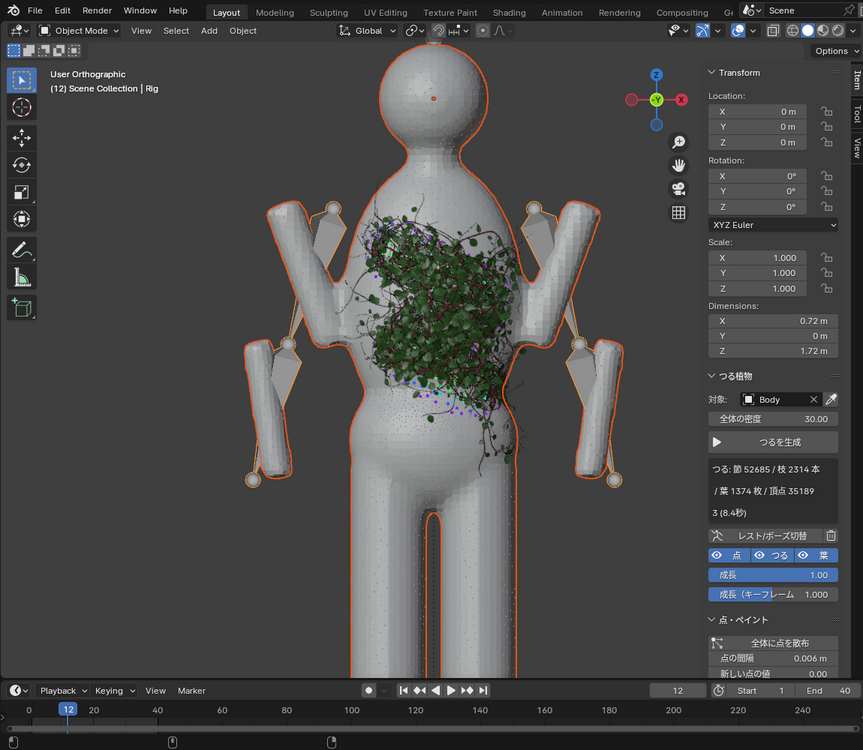
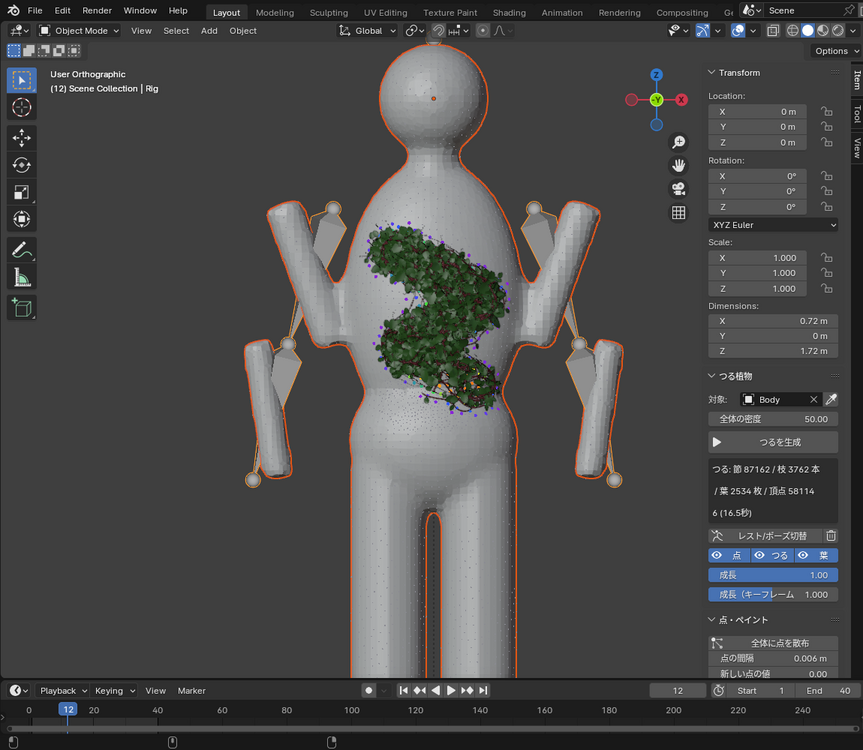
Vine Grow 1.9: paint colours orange-yellow-green-blue-purple, values read clearly
Values 0..100 are shown purple -> blue -> green -> yellow -> orange and
act squared on the density, so orange grows thick, blue only a few vines
and purple none. Each vine keeps to the density where it started:
it turns back where the paint gets thinner and stops if it strays.

Claude-Session: https://claude.ai/code/session_01KQp3gkt41MH9DD5UKXXHAb

Changed region(s): [[0.3917, 0.276, 0.6025, 0.6133], [0.9038, 0.6133, 0.934, 0.644], [0.8436, 0.6747, 0.8737, 0.7053]]

diff --git a/blender/vine_grow/vine_grow/tangle.py b/blender/vine_grow/vine_grow/tangle.py
@@ -85,8 +85,9 @@ class PointField(_FieldBase):
             self.kd.insert(nd.co, i)
         self.kd.balance()
         blend = max(P.point_blend * scale, self.spacing * 0.5)
-        # painted 0..100 (100 = the overall density)
-        vals = [max(0.0, v) / 100.0 * P.density for v in ps.val]
+        # painted 0..100 -> density. Squared so the colours read clearly: 100 (orange) is the full
+        # overall density, 50 (green) a quarter, 25 (blue) only a few vines, 0 (purple) none.
+        vals = [(max(0.0, min(v, 100.0)) / 100.0) ** 2 * P.density for v in ps.val]
         for i, nd in enumerate(self.nodes):
             sw = sv = 0.0
             for _co, j, d in self.kd.find_range(nd.co, blend * 2.0):
@@ -222,25 +223,34 @@ class Grower:
         next_node = self.internode * rng.uniform(0.3, 1.0)
         swell = 0
         steps = max(3, int(length / step))
+        home = self.field.at(ps)  # the density where this vine started: it keeps to that level
+        outside = 0
         for j in range(steps):
             if j == 6 and parent_vid is not None:
                 skip.discard(parent_vid)
             u = j / steps
             nz = noise.noise(seed + Vector((s / self.curl_len, 0.0, 0.0)))
             ang = (curl * 0.25 + nz * P.curl * 1.6) * step / self.curl_len * math.tau * 0.25
-            # stay where it was painted: turn away from where the density drops (no turning inside an
-            # evenly painted area, so the vines keep their own wandering there)
-            here = self.field.at(ps)
-            probe = step * 4.0
-            ahead = self.field.at(ps + d * probe)
-            if here > 0.0 and ahead < here * 0.7:
-                side = n.cross(d)
-                if side.length_squared > 1e-12:
-                    side.normalize()
-                    dl = self.field.at(ps + (d + side).normalized() * probe)
-                    dr = self.field.at(ps + (d - side).normalized() * probe)
-                    turn = 0.9 * (1.0 - ahead / here)
-                    ang += turn if dl >= dr else -turn
+            # stay where it was painted: turn away from where the density falls below the level the vine
+            # started at (no turning inside an evenly painted area, so the vines wander freely there)
+            if home > 0.0:
+                here = self.field.at(ps)
+                probe = step * 4.0
+                ahead = self.field.at(ps + d * probe)
+                if ahead < home * 0.75:
+                    side = n.cross(d)
+                    if side.length_squared > 1e-12:
+                        side.normalize()
+                        dl = self.field.at(ps + (d + side).normalized() * probe)
+                        dr = self.field.at(ps + (d - side).normalized() * probe)
+                        turn = 1.2 * min(1.0, 1.0 - ahead / home)
+                        ang += turn if dl >= dr else -turn
+                if here < home * 0.5:
+                    outside += 3 if here < home * 0.05 else 1  # unpainted ground: give up quickly
+                else:
+                    outside = 0
+                if outside > 6:
+                    break  # strayed into a much sparser part: end here
             d = Matrix.Rotation(ang, 3, n) @ d
             want = ps + d * step
             nh = self.sampler.nearest(want)

diff --git a/blender/vine_grow/vine_grow/properties.py b/blender/vine_grow/vine_grow/properties.py
@@ -126,7 +126,7 @@ class VineGrowSettings(bpy.types.PropertyGroup):
     density: FloatProperty(name="全体の密度", default=50.0, min=0.0, soft_max=500.0,
                            description="値 100 で塗った所の密度（100cm² あたりのつるの本数）。塗った値はこれに対する割合")
     show_points: BoolProperty(name="点を表示", default=True, update=_redraw,
-                              description="密度の点を、値に応じた色（紫=0 → 緑=100）で表示")
+                              description="密度の点を、値に応じた色（紫=0 → 青 → 緑 → 黄 → オレンジ=100）で表示")
     show_vines: BoolProperty(name="つるを表示", default=True, update=_show_vines_changed,
                              description="つるの表示・非表示（点を塗るときは隠すと見やすい）")
     point_spacing: FloatProperty(name="点の間隔", default=0.015, min=0.002, soft_max=0.1, unit="LENGTH",

diff --git a/blender/vine_grow/vine_grow/points.py b/blender/vine_grow/vine_grow/points.py
@@ -14,9 +14,9 @@ ATTR_NORMAL = "vg_normal"
 
 VALUE_MAX = 100.0  # painted values are 0..100 (100 = the overall density)
 
-# 0 purple -> blue -> cyan -> 100 green
-RAMP = ((0.0, (0.55, 0.12, 0.85)), (0.33, (0.15, 0.35, 1.00)), (0.66, (0.10, 0.85, 0.90)),
-        (1.0, (0.20, 0.95, 0.20)))
+# 0 purple -> 25 blue -> 50 green -> 75 yellow -> 100 orange
+RAMP = ((0.0, (0.55, 0.12, 0.85)), (0.25, (0.15, 0.35, 1.00)), (0.5, (0.20, 0.85, 0.25)),
+        (0.75, (1.00, 0.90, 0.10)), (1.0, (1.00, 0.45, 0.05)))
 ZERO_COLOR = (0.55, 0.55, 0.58)  # unpainted: small and close to a grey body so it stays quiet
 
 

diff --git a/blender/vine_grow/vine_grow/ui.py b/blender/vine_grow/vine_grow/ui.py
@@ -92,7 +92,7 @@ class VINEGROW_PT_points(_Base, _Targeted, bpy.types.Panel):
             box.prop(P, "add_with_value")
         box.label(text="Ctrl: 減らす/削除  Shift: ぼかす", icon="INFO")
         box.label(text="B を押したまま上下: ブラシの大きさ")
-        layout.label(text="色: 紫=0 → 青 → 水色 → 緑=100")
+        layout.label(text="色: 紫0 → 青 → 緑 → 黄 → 橙100")
         c = layout.column(align=True)
         c.prop(P, "point_size")
         c.prop(P, "point_blend")

diff --git a/blender/vine_grow/vine_grow/__init__.py b/blender/vine_grow/vine_grow/__init__.py
@@ -1,7 +1,7 @@
 bl_info = {
     "name": "Vine Grow (つる植物ジェネレータ)",
     "author": "A_life",
-    "version": (1, 8, 0),
+    "version": (1, 9, 0),
     "blender": (3, 6, 0),
     "location": "3Dビューポート > サイドバー(N) > Vine Grow",
     "description": "体に打った点に密度をペイントして、体に絡みつき少し空間にも広がる、つる植物（茎・葉）を生成する。アニメーションに追従",

diff --git a/blender/vine_grow/README.md b/blender/vine_grow/README.md
@@ -3,13 +3,13 @@
 体の表面に点を打ち、Yeti のようにブラシで **密度をペイント** すると、塗った所ほど密に **つる植物（茎と葉）** が茂ります。
 つるは方向なく絡まり合い、体に沿いながら少し空間にも浮き上がります。体を貫通せず、対象のアニメーションに追従し、伸びていく様子もアニメーションにできます。
 
-点に密度を塗る（紫=0 → 青 → 水色 → 緑=100）と、生成結果:
+点に密度を塗る（紫=0 → 青 → 緑 → 黄 → オレンジ=100）と、生成結果:
 
 ![paint](preview_paint.png) ![result](preview_paint_result.png)
 
-胸を値 100、腰を値 50 で塗った例（左: 全体の密度 30、右: 100）。つるは塗った所に留まって茂る:
+胸を縦の帯に塗り分けた例（左から 0 / 25 / 50 / 75 / 100、全体の密度 50。左: つるだけ、右: 葉あり）。オレンジは茂り、青はほんの少し、紫には生えない:
 
-![dense](preview_dense.png)
+![bands](preview_bands.png)
 
 つる（左: 正面、中: 近く、右: 横から。茎が体から浮いて重なる）:
 
@@ -34,16 +34,16 @@
    - 追加：ブラシの中に点を足す（`Ctrl` で削除）／削除：ブラシの中の点を消す
    - **`B` を押したままマウスを上下** でブラシの大きさを変える（上で大きく、下で小さく）
    - `Alt`+ドラッグ・中ボタンで視点操作、`Enter` / 右クリック / `Esc` で終了（ブラシ1回分が1つの元に戻す単位）
-4. 点は値に応じた色で表示される（**紫=0 → 青 → 水色 → 緑=100**。値 0 の点は小さな灰色）
-5. **全体の密度**：値 100 で塗った所の密度（100cm² あたりのつるの本数）。塗った値はこれに対する割合なので、ここで全体の量を調整する
+4. 点は値に応じた色で表示される（**紫=0 → 青=25 → 緑=50 → 黄=75 → オレンジ=100**。値 0 の点は小さな灰色）
+5. **全体の密度**：値 100（オレンジ）で塗った所の密度（100cm² あたりのつるの本数）。色の差がはっきり出るように、値は2乗で効く（75=約半分、50=1/4、25=1/16、0=なし）。全体の量はここで調整する
 6. **つるを生成**（結果やうまくいかなかった理由はパネルに表示されます）
 7. **点 / つる / 葉** ボタンで、それぞれ表示・非表示（塗るときはつると葉を隠すと見やすい。葉は `<対象>_Leaves`、点は `<対象>_VinePoints` という別オブジェクト）
 8. **成長** で伸び具合を変える（葉も一緒に出てくる）。アニメーションにするときは「成長（キーフレーム用）」にマウスを乗せて `I` でキーフレームを打つ
 
 ## 仕組み
-1. 塗った値（0〜100）×「全体の密度」/100 を、「なじませる距離」で隣の点となめらかにつなぐ（体の裏表は混ぜない）。粗密は点の塗り分けで付ける
+1. 塗った値（0〜100）を (値/100)² ×「全体の密度」にして、「なじませる距離」で隣の点となめらかにつなぐ（体の裏表は混ぜない）。粗密は点の塗り分けで付ける
 2. 密度の高い所ほど多く、つるの根元をランダムに置く。向きもランダムなので、流れの方向はない
-3. 1本のつるは根元が太く先が細い1本の茎で、なめらかに曲がりくねりながら体を這う。進む先の密度が急に下がる所（塗った所の縁）では曲がって戻るので、つるは塗った所に留まり、塗った密度どおりに茂る（同じ値で塗った中では自由にうねる）
+3. 1本のつるは根元が太く先が細い1本の茎で、なめらかに曲がりくねりながら体を這う。進む先の密度が、そのつるが生えた所の密度より下がると曲がって戻り、薄い所へ迷い込んだら止まるので、つるは塗った値の所に留まり、塗り分けどおりに茂る（同じ値で塗った中では自由にうねる）
 4. 茎は所々で体から **浮き上がってアーチ状に戻り**、他の茎に出会うとその **上を乗り越える** ので、絡まりに奥行きができる
 5. 一定間隔の **節**（少しふくらむ）から脇枝と巻きひげが出る。巻きひげは近くに茎があれば **その茎に巻き付き**、なければ自分で巻く
 6. 一部の先端は体を離れて **空中へ伸び**、先は巻く。成長アニメーションでは、すべてのつるが根元から一斉に伸びる
